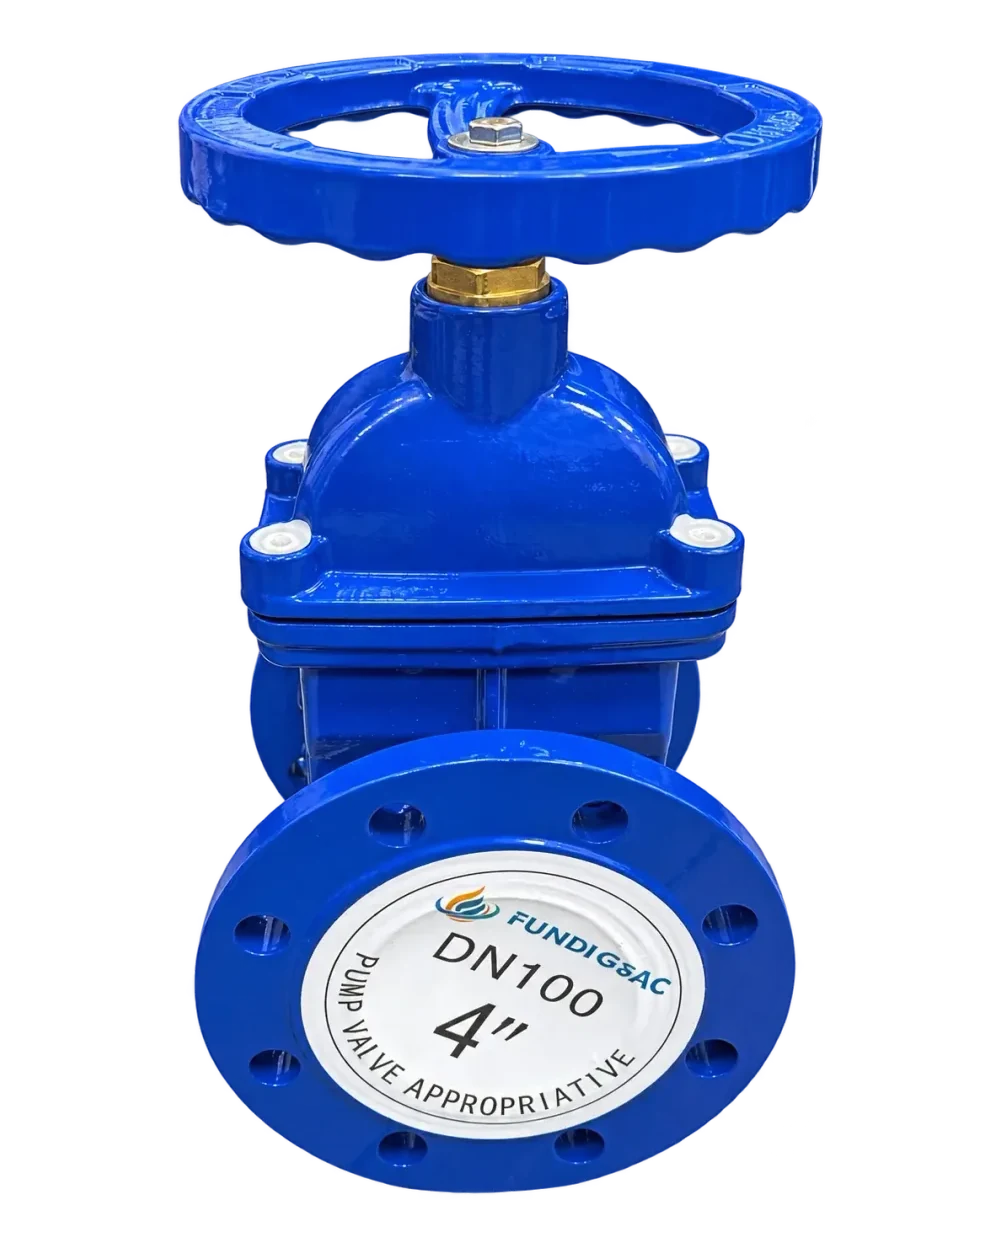
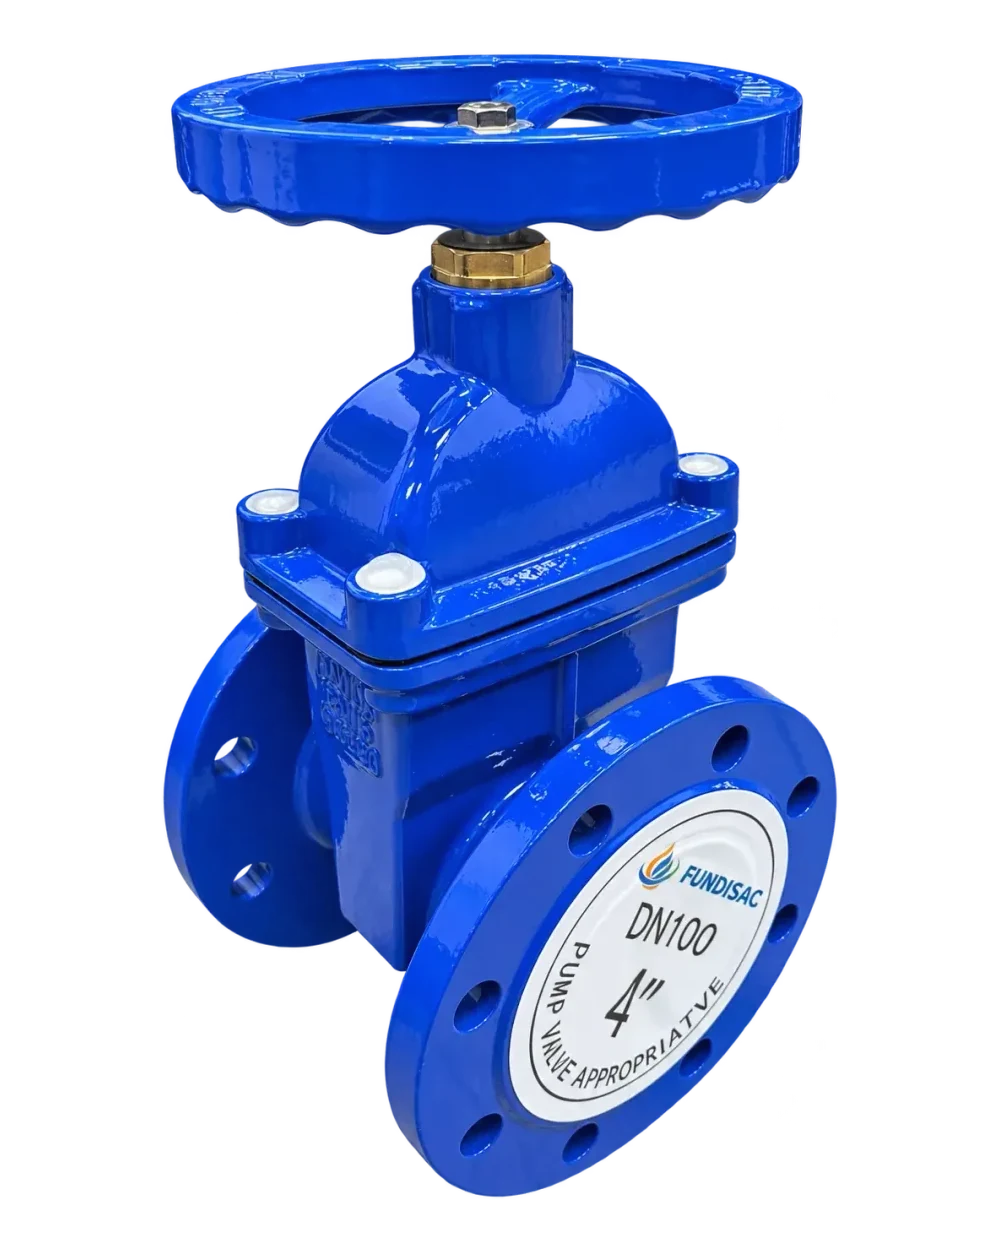
feat(catalog): use the perspective photo as the last image of the FUNDIGSAC gallery

diff --git a/src/screens/islands/w06-ficha.tsx b/src/screens/islands/w06-ficha.tsx
@@ -59,7 +59,7 @@ const FUNDIGSAC_THUMBS = [
   { dir: FG, src: "f-02.webp", alt: "Válvula de compuerta bridada FUNDIGSAC DN100 PN16, vista frontal con volante y marcado GGG50 en el cuerpo" },
   { dir: FG, src: "f-03.webp", alt: "Vista superior del volante azul de la válvula FUNDIGSAC con indicación CLOSE y OPEN" },
   { dir: FG, src: "f-04.webp", alt: "Válvula de compuerta bridada FUNDIGSAC, vista frontal elevada con etiqueta DN100 de 4 pulgadas en la brida" },
-  { dir: FG, src: "f-05.webp", alt: "Válvula de compuerta bridada FUNDIGSAC, vista frontal de la brida con etiqueta DN100 de 4 pulgadas" },
+  { dir: FG, src: "f-05.webp", alt: "Válvula de compuerta bridada FUNDIGSAC, vista en perspectiva con la brida y la etiqueta DN100 de 4 pulgadas" },
 ];
 
 const RELATED = [
